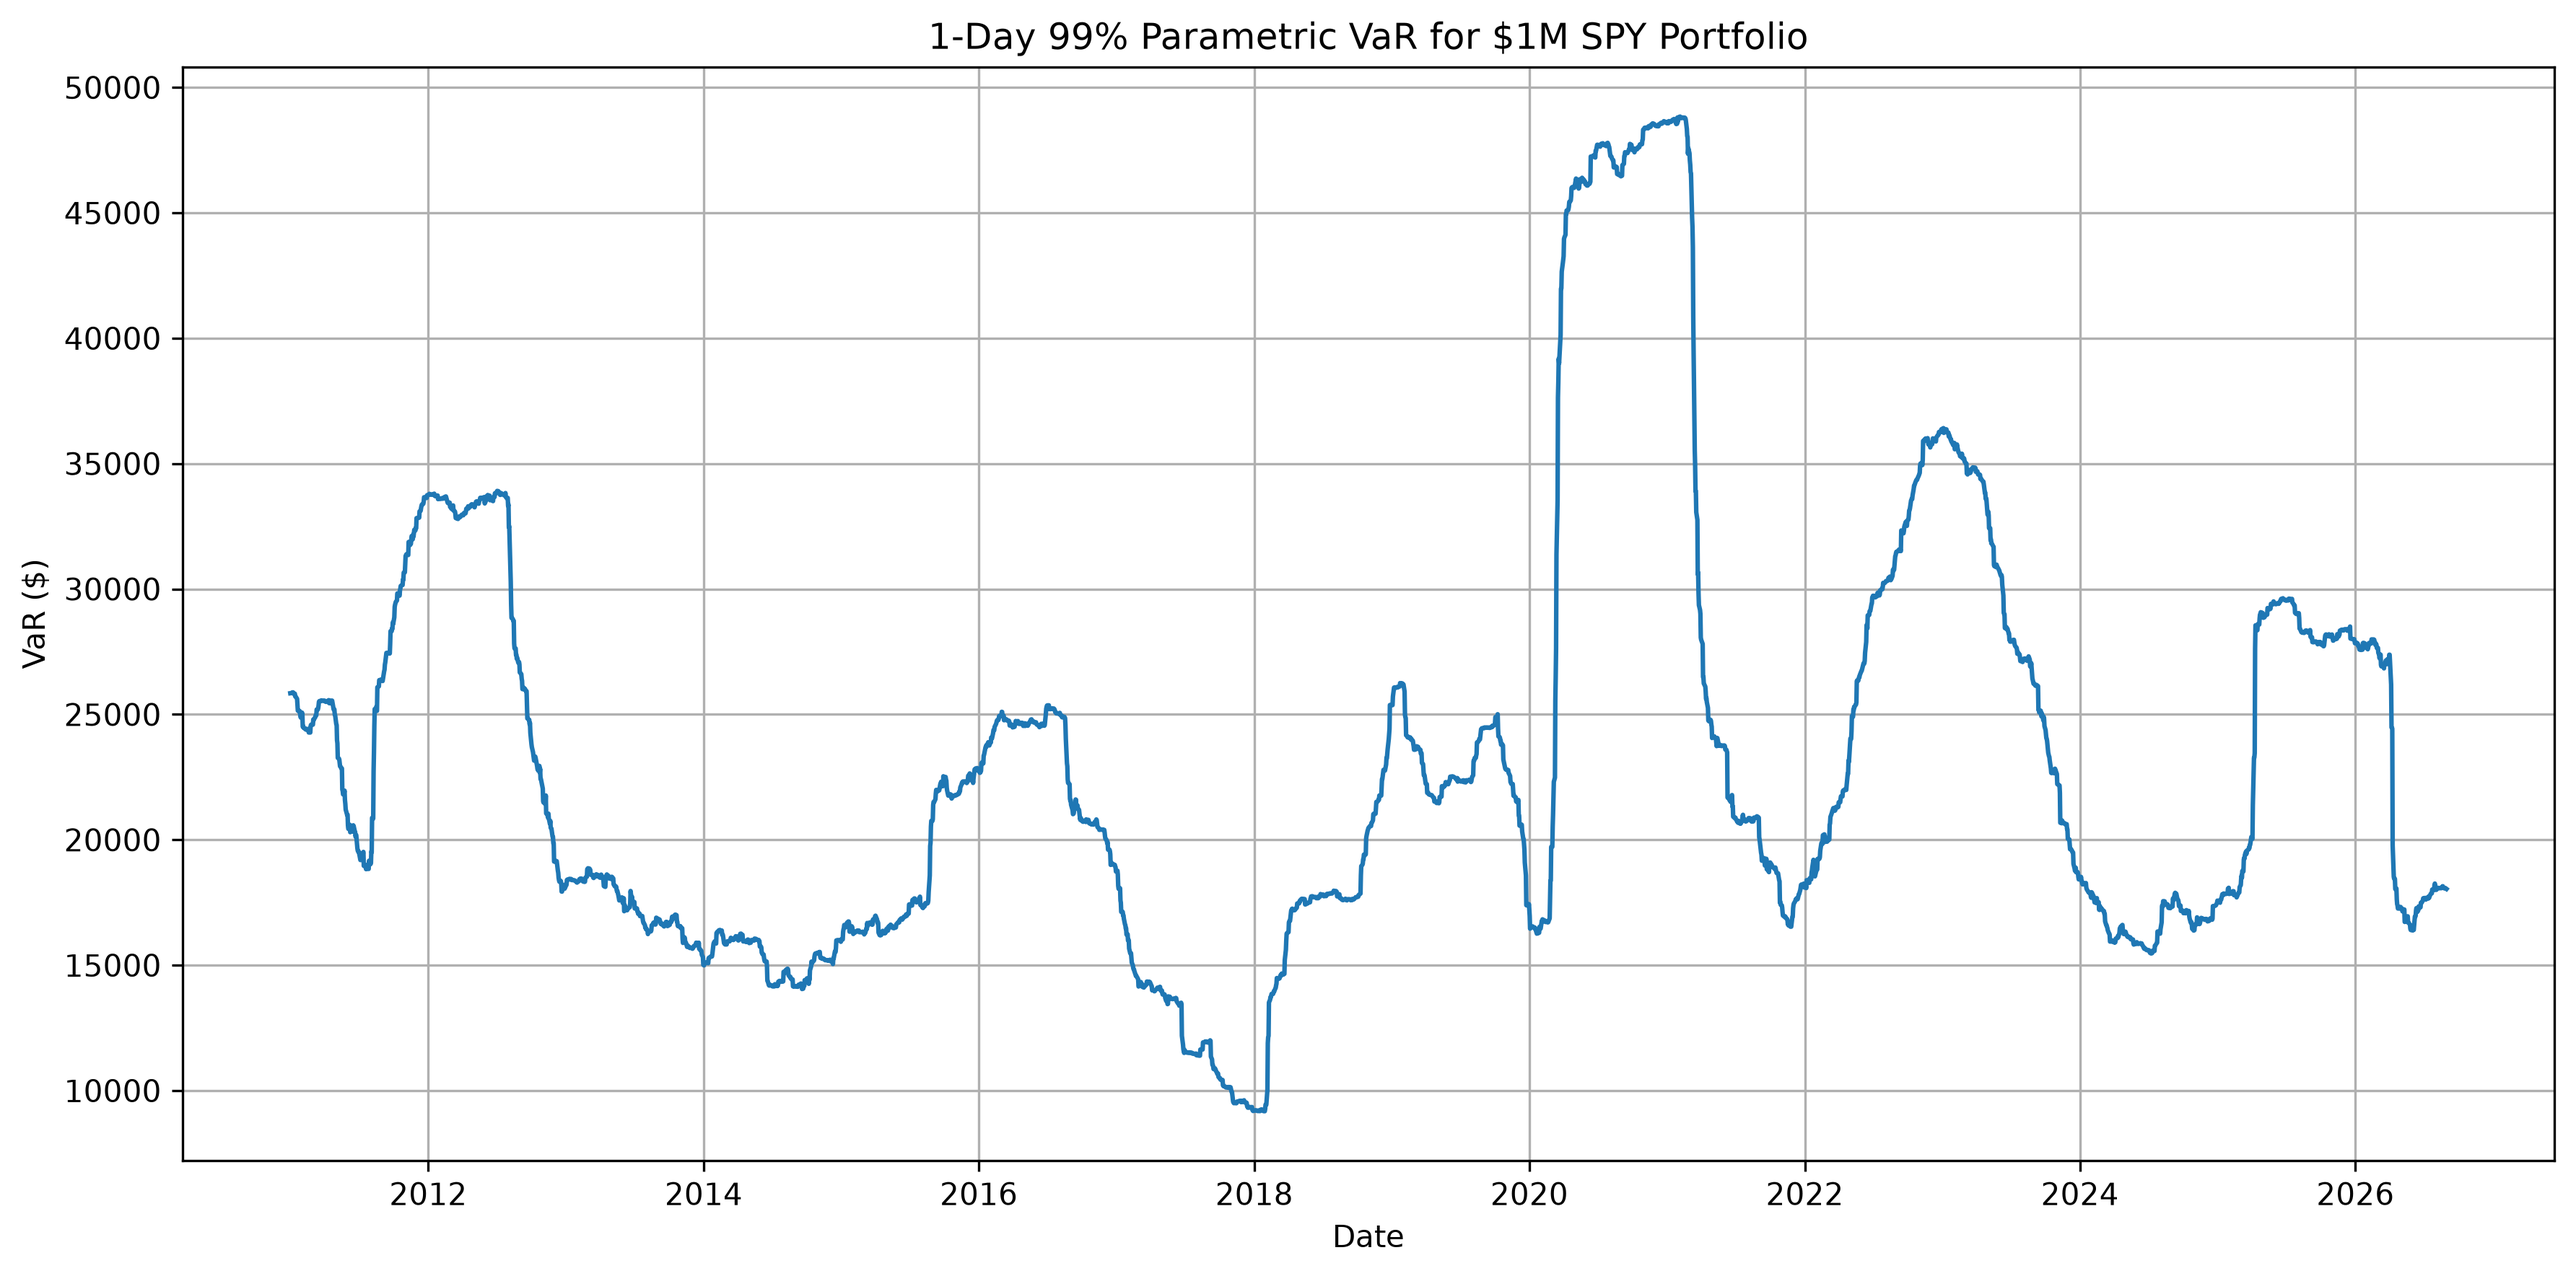
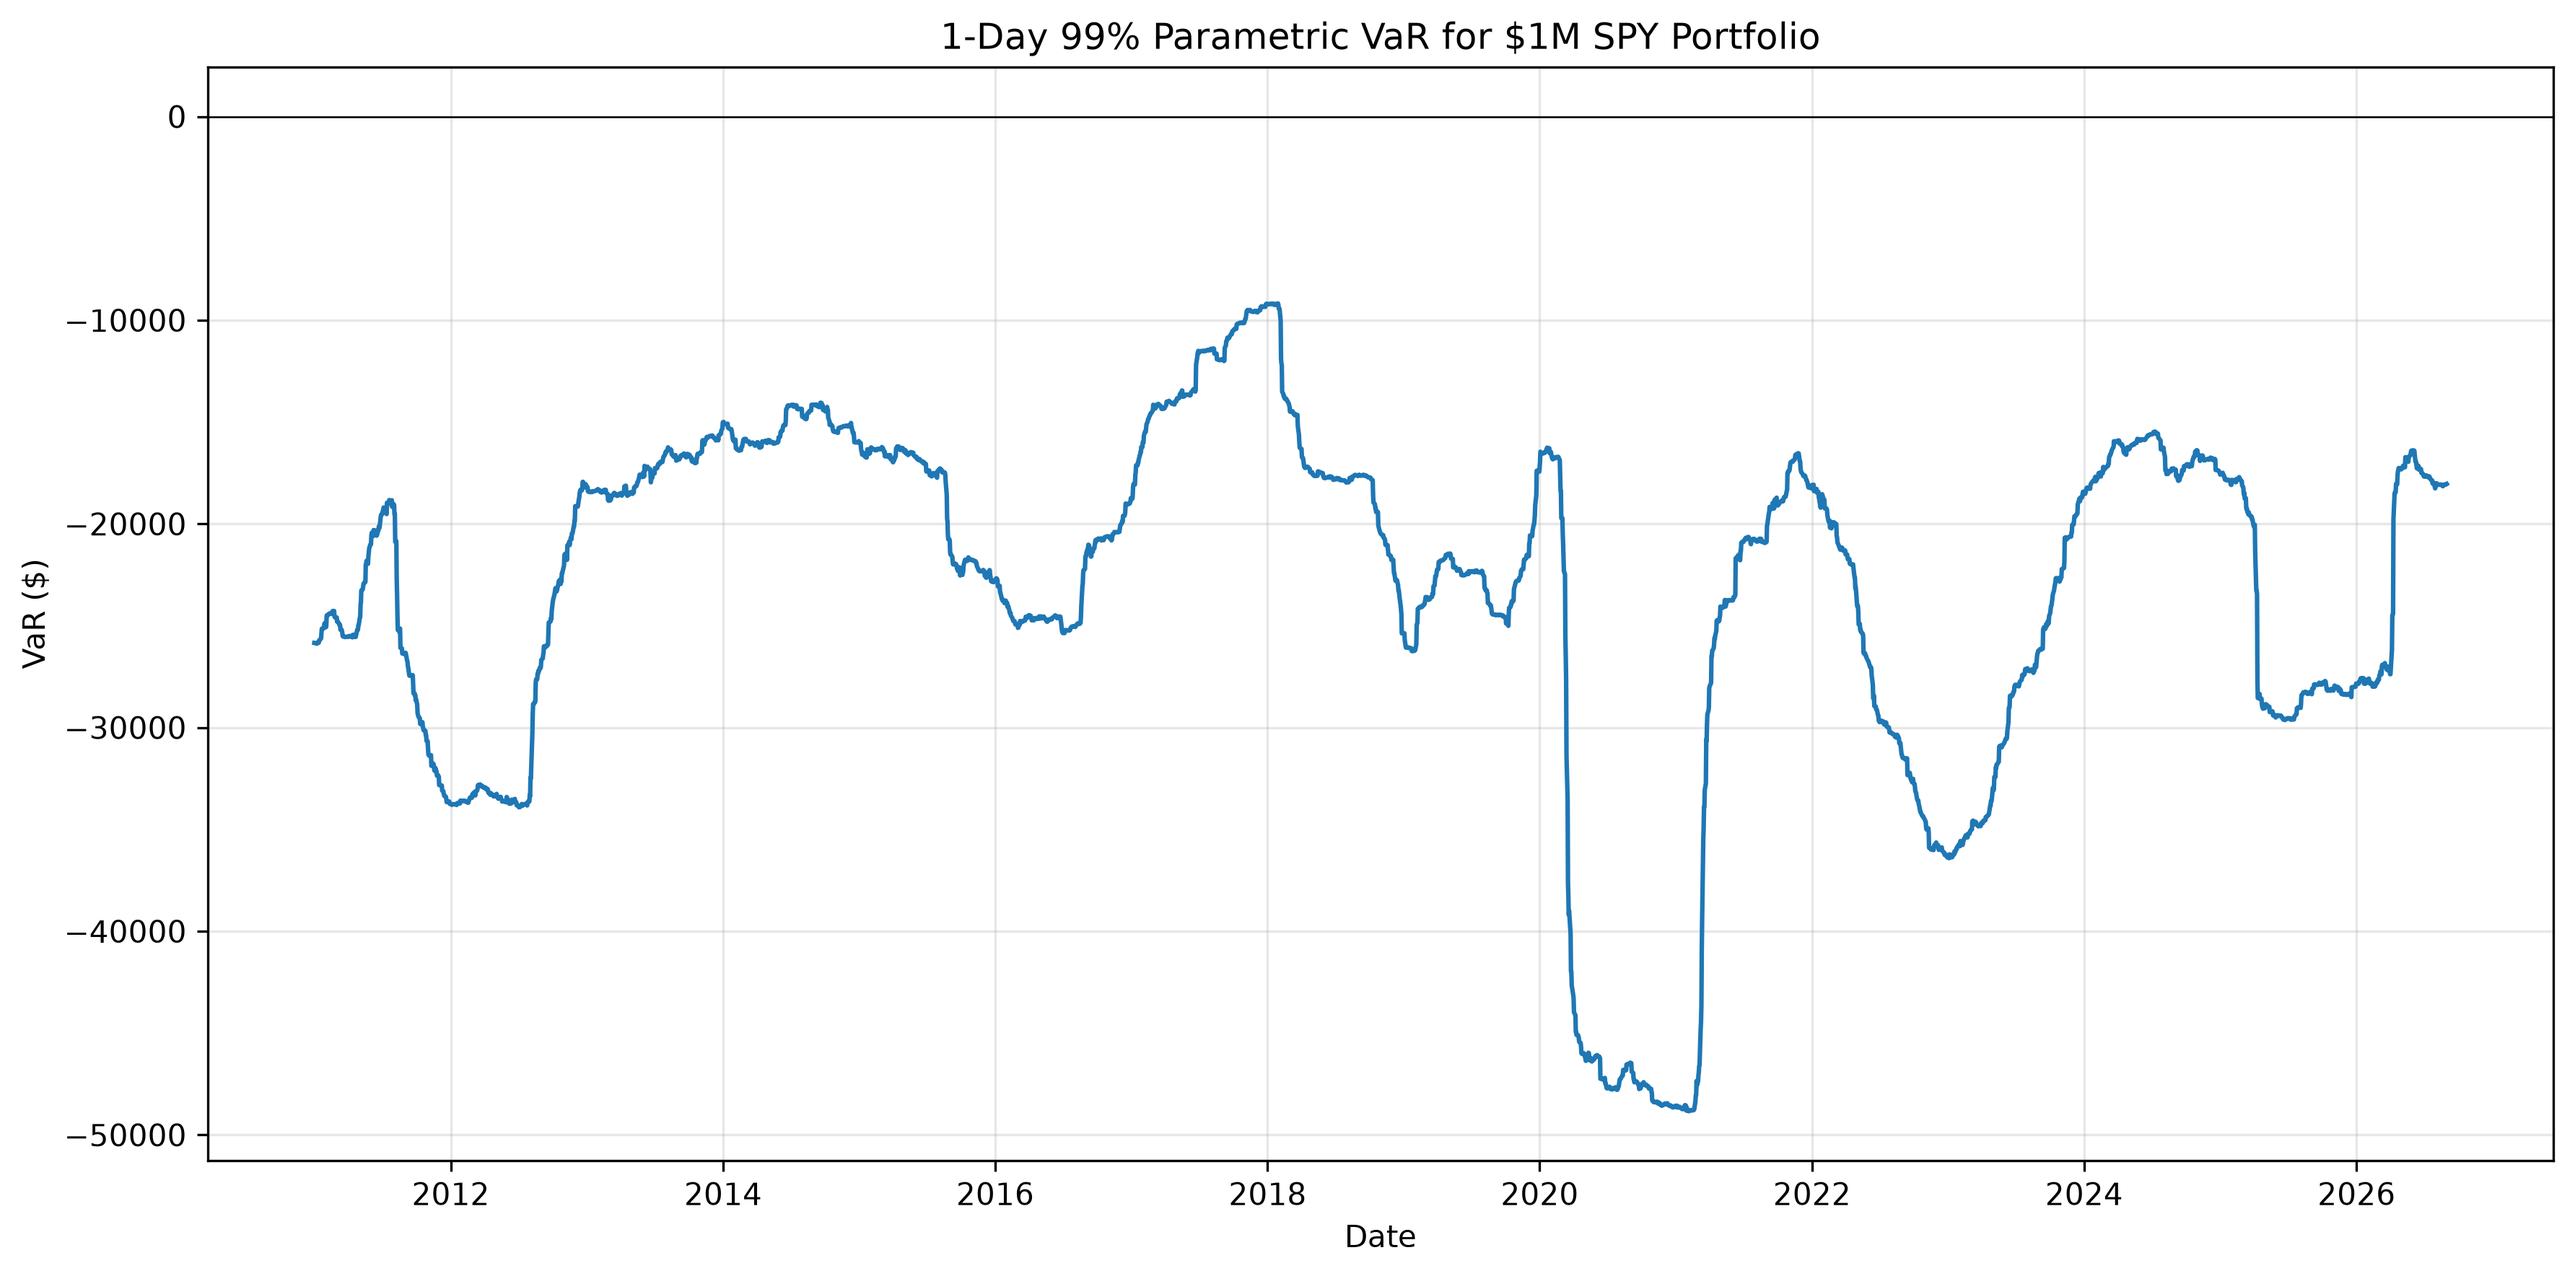
Update Parametric VaR charts to negative-loss convention

diff --git a/notebooks/02_parametric_var/parametric_var.py b/notebooks/02_parametric_var/parametric_var.py
@@ -89,18 +89,19 @@ print(model_output.head())
 print(f"\nOutput rows saved: {len(model_output)}")
 print("Saved to: results/parametric_var_output.csv")
 
-# Plot daily 99% VaR over time
+# Plot daily 99% VaR over time, displayed as a negative loss threshold
 plt.figure(figsize=(12, 6))
 
 plt.plot(
     model_output["Date"],
-    model_output["VaR_99"]
+    -model_output["VaR_99"]
 )
 
+plt.axhline(0, color="black", linewidth=0.6)
 plt.title("1-Day 99% Parametric VaR for $1M SPY Portfolio")
 plt.xlabel("Date")
 plt.ylabel("VaR ($)")
-plt.grid(True)
+plt.grid(True, alpha=0.3)
 
 plt.tight_layout()
 
@@ -120,21 +121,25 @@ plt.plot(
     model_output["Date"],
     model_output["Portfolio_PnL"],
     label="Daily Portfolio P&L",
-    linewidth=0.8
+    color="black",
+    linewidth=0.8,
+    alpha=0.7
 )
 
 plt.plot(
     model_output["Date"],
     -model_output["VaR_99"],
-    label="99% VaR Threshold",
+    label="99% Parametric VaR",
     linewidth=1.2
 )
+
+plt.axhline(0, color="black", linewidth=0.6)
 
 plt.title("Daily Portfolio P&L vs. 99% Parametric VaR")
 plt.xlabel("Date")
 plt.ylabel("Dollar P&L ($)")
 plt.legend()
-plt.grid(True)
+plt.grid(True, alpha=0.3)
 
 plt.tight_layout()
 
